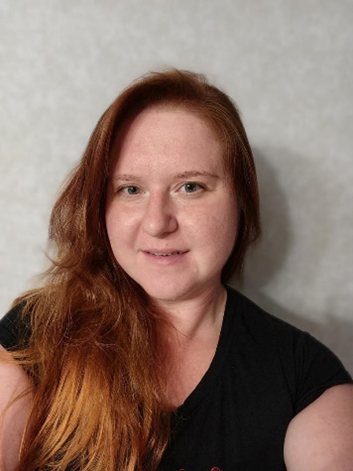
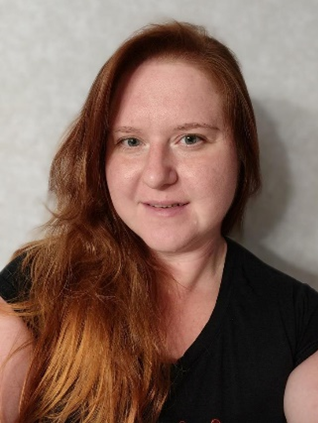
Changes
1.Replaced eesaulova.png file.
2.Changed links and aatributes at index.html
3.Changed img parameters in style.css

diff --git a/index.html b/index.html
@@ -5,7 +5,7 @@
 	<title>Ekaterina Esaulova | Curriculum Vitae</title>
 	<link href="https://fonts.googleapis.com/css?family=Roboto:300,300italic" rel="stylesheet" type="text/css">
 	<link rel="stylesheet" href="style.css">
-	<link rel="icon" type="image/jpeg" href="https://github.com/eesaulova/eesaulova.github.io/blob/main/eesaulova.png">
+	<link rel="icon" type="image/jpeg" href="eesaulova.png">
 </head>
 <body>
 	<div class="content">
@@ -16,21 +16,22 @@
 			My name is 
 			<span class="highlight">Ekaterina Esaulova</span>
 			 and I'm 
-			<span class="highlight">software test engineer</span>
-			!
+			<span class="highlight">software test engineer</span>.
 		</span>
 		<br>
 		<span>Instead of many words look into my CV </span>
-			<a href="https://docs.google.com/document/d/1Dre6XkScEDwoBO7PAWscnvttztCjzwYjjkaxdPdF8yc/edit?usp=sharing">
-				<span class="highlight">here</span>
+			<a href="https://docs.google.com/document/d/1Dre6XkScEDwoBO7PAWscnvttztCjzwYjjkaxdPdF8yc/edit?usp=sharing" download>
+				<span class="highlight-red">here</span>.
 			</a>
-			.
 			</div>
 			<table>
 				<tbody>
 					<tr>
 						<td rowspan="4">
-							<img src="eesaulova.png" alt="Ekaterina Esaulova" title="Ekaterina Esaulova">
+							<img 
+							src="eesaulova.png" width="471" height="353" 
+							alt="Ekaterina Esaulova" 
+							title="Ekaterina Esaulova">
 						</td>
 						<td>
 							<span>skype:</span>

diff --git a/style.css b/style.css
@@ -11,8 +11,9 @@ span{
 }
 
 img{
-	width: 70px;
-	border-radius: 35px;
+	width: 125px;
+	height: 150px;
+	border-radius: 70px;
 	margin: 10px 15px 0 0;
 }
 
